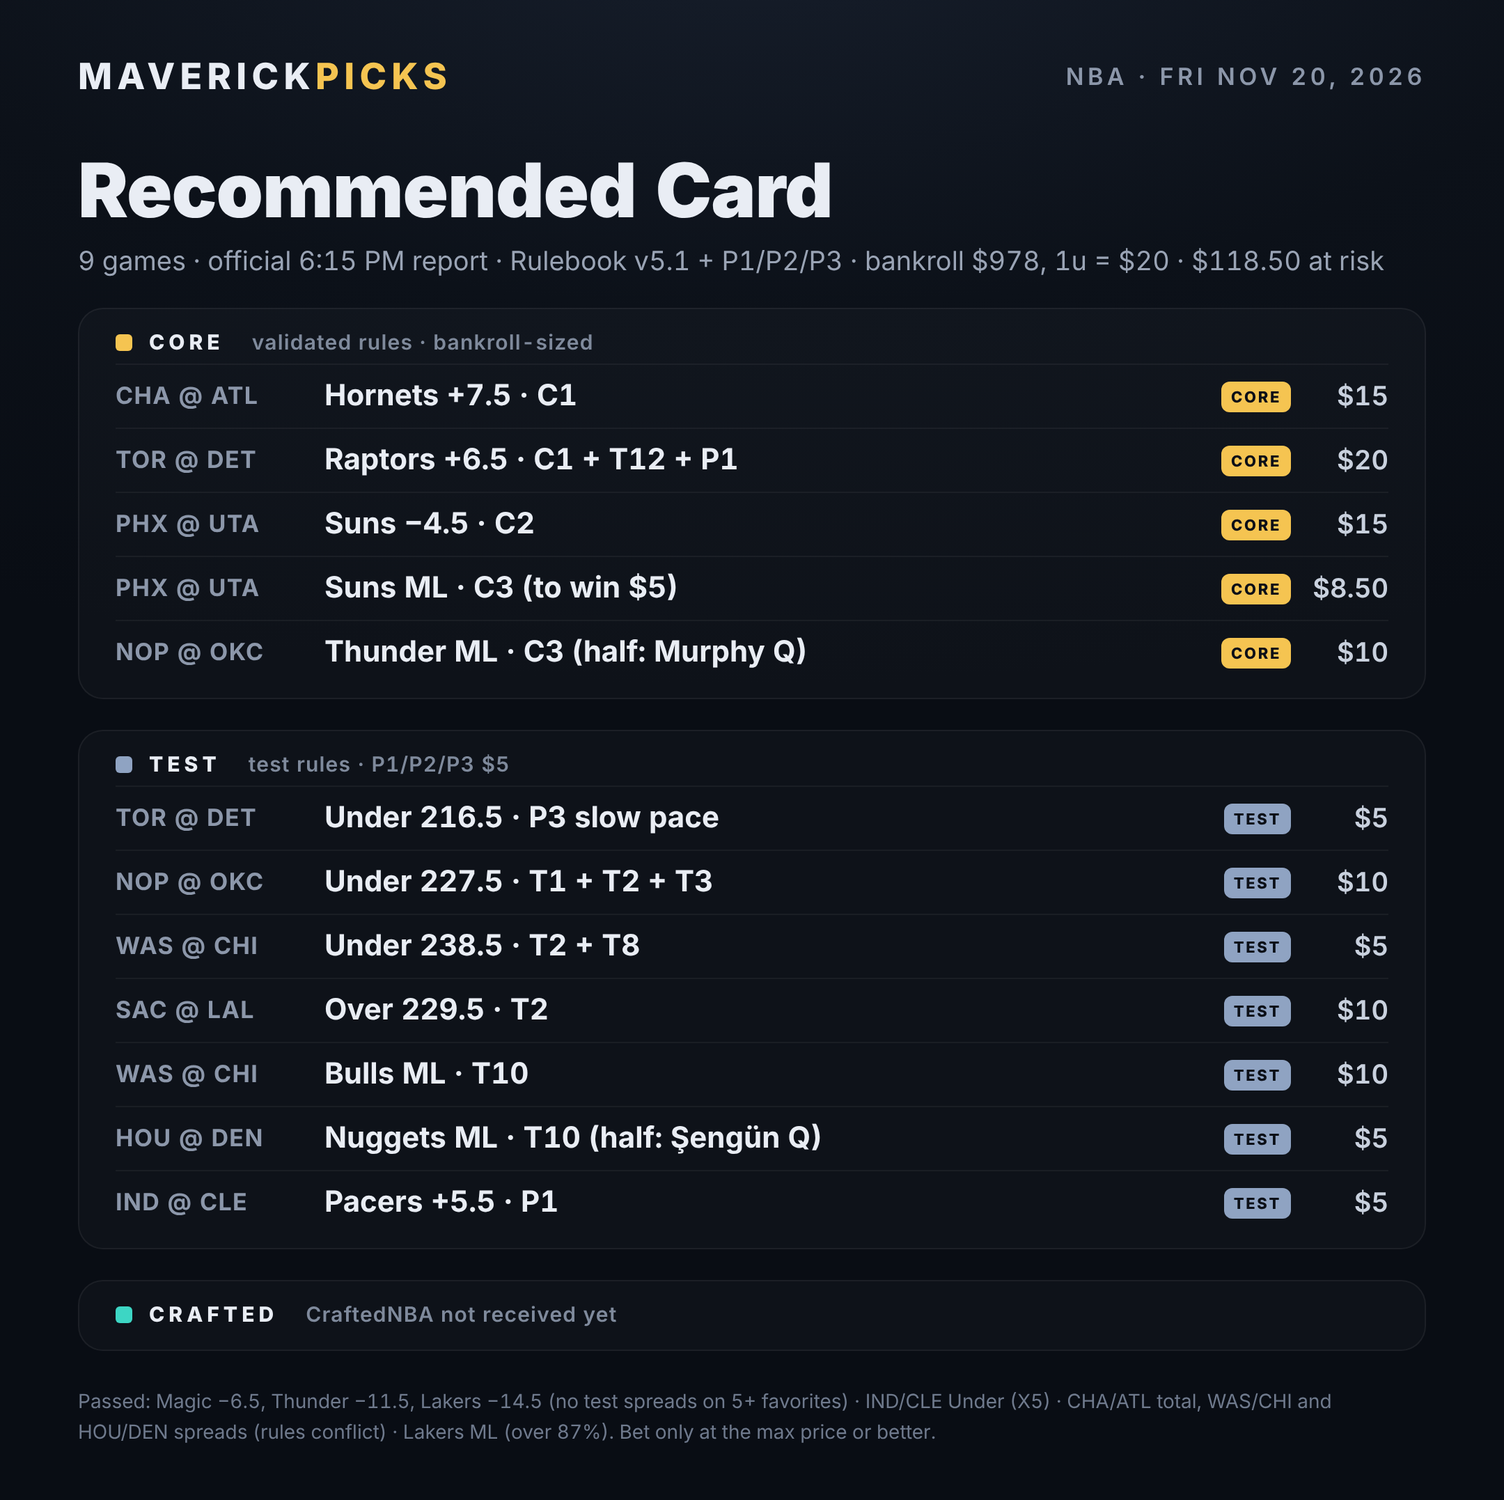
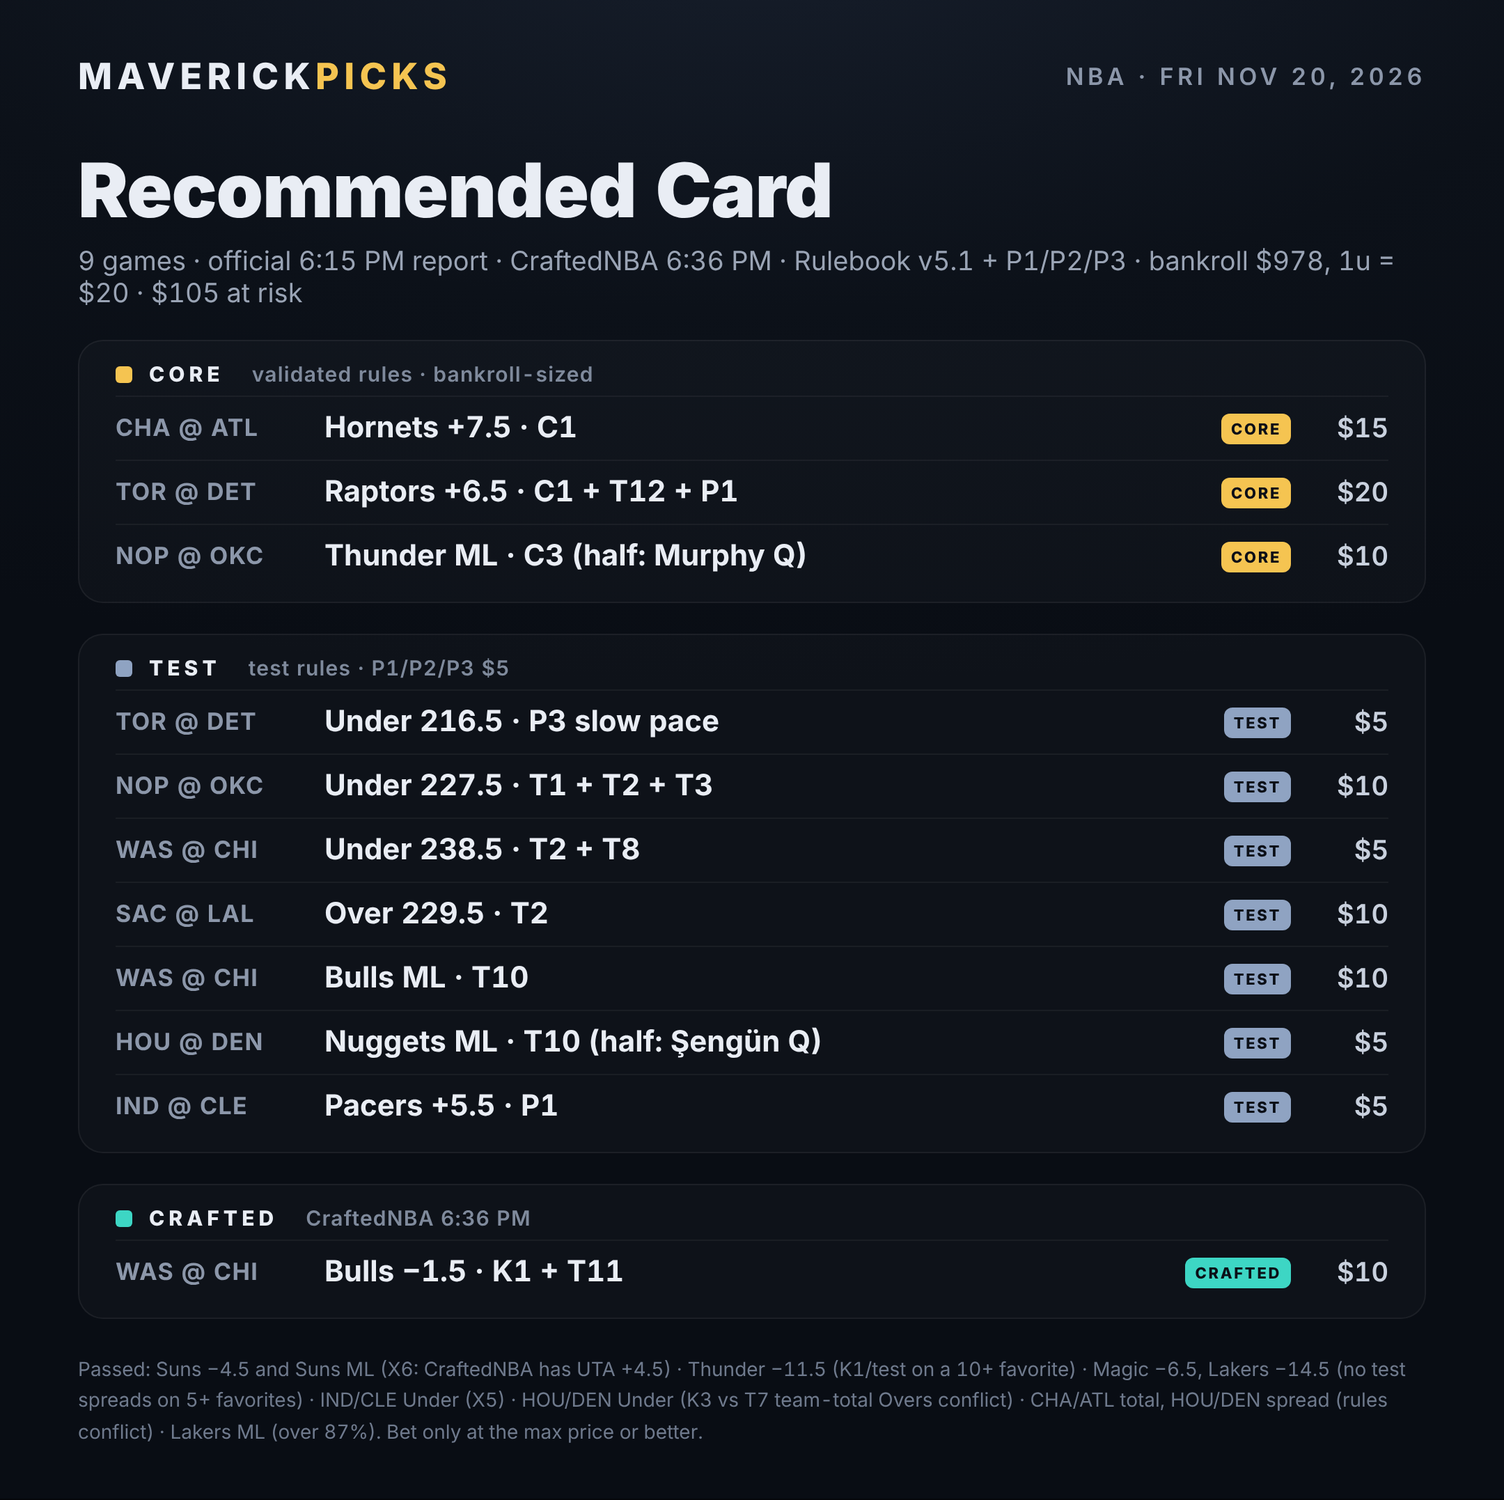
11/20 card: CraftedNBA 6:36 PM (K1 Bulls, X6 passes Suns)
Claude-Session: https://claude.ai/code/session_01QjvVrX2VGrkZLp9bxEQ8uL

diff --git a/nba_session/cards_1120/00_recommended_card.html b/nba_session/cards_1120/00_recommended_card.html
@@ -20,6 +20,6 @@ h1{font-size:54px;font-weight:900;letter-spacing:-.01em;margin:34px 0 6px}
 .foot{margin-top:26px;font-size:14px;color:#6F7A8D;line-height:1.6} .foot b{color:#C9D1DE}
 </style></head><body><div id="card">
 <div class="top"><div class="brand">MAVERICK<span>PICKS</span></div><div class="meta">NBA · FRI NOV 20, 2026</div></div>
-<h1>Recommended Card</h1><div class="lead">9 games · official 6:15 PM report · Rulebook v5.1 + P1/P2/P3 · bankroll $978, 1u = $20 · $118.50 at risk</div>
-<div class="sec"><div class="sh"><span class="dot" style="background:#F5C451"></span>CORE<span class="sub">validated rules · bankroll-sized</span></div><div class="it"><div class="g">CHA @ ATL</div><div class="p">Hornets +7.5 · C1</div><div class="tags"><span class="tag" style="background:#F5C451">CORE</span></div><div class="u">$15</div></div><div class="it"><div class="g">TOR @ DET</div><div class="p">Raptors +6.5 · C1 + T12 + P1</div><div class="tags"><span class="tag" style="background:#F5C451">CORE</span></div><div class="u">$20</div></div><div class="it"><div class="g">PHX @ UTA</div><div class="p">Suns −4.5 · C2</div><div class="tags"><span class="tag" style="background:#F5C451">CORE</span></div><div class="u">$15</div></div><div class="it"><div class="g">PHX @ UTA</div><div class="p">Suns ML · C3 (to win $5)</div><div class="tags"><span class="tag" style="background:#F5C451">CORE</span></div><div class="u">$8.50</div></div><div class="it"><div class="g">NOP @ OKC</div><div class="p">Thunder ML · C3 (half: Murphy Q)</div><div class="tags"><span class="tag" style="background:#F5C451">CORE</span></div><div class="u">$10</div></div></div><div class="sec"><div class="sh"><span class="dot" style="background:#8FA3C2"></span>TEST<span class="sub">test rules · P1/P2/P3 $5</span></div><div class="it"><div class="g">TOR @ DET</div><div class="p">Under 216.5 · P3 slow pace</div><div class="tags"><span class="tag" style="background:#8FA3C2">TEST</span></div><div class="u">$5</div></div><div class="it"><div class="g">NOP @ OKC</div><div class="p">Under 227.5 · T1 + T2 + T3</div><div class="tags"><span class="tag" style="background:#8FA3C2">TEST</span></div><div class="u">$10</div></div><div class="it"><div class="g">WAS @ CHI</div><div class="p">Under 238.5 · T2 + T8</div><div class="tags"><span class="tag" style="background:#8FA3C2">TEST</span></div><div class="u">$5</div></div><div class="it"><div class="g">SAC @ LAL</div><div class="p">Over 229.5 · T2</div><div class="tags"><span class="tag" style="background:#8FA3C2">TEST</span></div><div class="u">$10</div></div><div class="it"><div class="g">WAS @ CHI</div><div class="p">Bulls ML · T10</div><div class="tags"><span class="tag" style="background:#8FA3C2">TEST</span></div><div class="u">$10</div></div><div class="it"><div class="g">HOU @ DEN</div><div class="p">Nuggets ML · T10 (half: Şengün Q)</div><div class="tags"><span class="tag" style="background:#8FA3C2">TEST</span></div><div class="u">$5</div></div><div class="it"><div class="g">IND @ CLE</div><div class="p">Pacers +5.5 · P1</div><div class="tags"><span class="tag" style="background:#8FA3C2">TEST</span></div><div class="u">$5</div></div></div><div class="sec"><div class="sh"><span class="dot" style="background:#3DD6C4"></span>CRAFTED<span class="sub">CraftedNBA not received yet</span></div></div>
-<div class="foot">Passed: Magic −6.5, Thunder −11.5, Lakers −14.5 (no test spreads on 5+ favorites) · IND/CLE Under (X5) · CHA/ATL total, WAS/CHI and HOU/DEN spreads (rules conflict) · Lakers ML (over 87%). Bet only at the max price or better.</div></div></body></html>
+<h1>Recommended Card</h1><div class="lead">9 games · official 6:15 PM report · CraftedNBA 6:36 PM · Rulebook v5.1 + P1/P2/P3 · bankroll $978, 1u = $20 · $105 at risk</div>
+<div class="sec"><div class="sh"><span class="dot" style="background:#F5C451"></span>CORE<span class="sub">validated rules · bankroll-sized</span></div><div class="it"><div class="g">CHA @ ATL</div><div class="p">Hornets +7.5 · C1</div><div class="tags"><span class="tag" style="background:#F5C451">CORE</span></div><div class="u">$15</div></div><div class="it"><div class="g">TOR @ DET</div><div class="p">Raptors +6.5 · C1 + T12 + P1</div><div class="tags"><span class="tag" style="background:#F5C451">CORE</span></div><div class="u">$20</div></div><div class="it"><div class="g">NOP @ OKC</div><div class="p">Thunder ML · C3 (half: Murphy Q)</div><div class="tags"><span class="tag" style="background:#F5C451">CORE</span></div><div class="u">$10</div></div></div><div class="sec"><div class="sh"><span class="dot" style="background:#8FA3C2"></span>TEST<span class="sub">test rules · P1/P2/P3 $5</span></div><div class="it"><div class="g">TOR @ DET</div><div class="p">Under 216.5 · P3 slow pace</div><div class="tags"><span class="tag" style="background:#8FA3C2">TEST</span></div><div class="u">$5</div></div><div class="it"><div class="g">NOP @ OKC</div><div class="p">Under 227.5 · T1 + T2 + T3</div><div class="tags"><span class="tag" style="background:#8FA3C2">TEST</span></div><div class="u">$10</div></div><div class="it"><div class="g">WAS @ CHI</div><div class="p">Under 238.5 · T2 + T8</div><div class="tags"><span class="tag" style="background:#8FA3C2">TEST</span></div><div class="u">$5</div></div><div class="it"><div class="g">SAC @ LAL</div><div class="p">Over 229.5 · T2</div><div class="tags"><span class="tag" style="background:#8FA3C2">TEST</span></div><div class="u">$10</div></div><div class="it"><div class="g">WAS @ CHI</div><div class="p">Bulls ML · T10</div><div class="tags"><span class="tag" style="background:#8FA3C2">TEST</span></div><div class="u">$10</div></div><div class="it"><div class="g">HOU @ DEN</div><div class="p">Nuggets ML · T10 (half: Şengün Q)</div><div class="tags"><span class="tag" style="background:#8FA3C2">TEST</span></div><div class="u">$5</div></div><div class="it"><div class="g">IND @ CLE</div><div class="p">Pacers +5.5 · P1</div><div class="tags"><span class="tag" style="background:#8FA3C2">TEST</span></div><div class="u">$5</div></div></div><div class="sec"><div class="sh"><span class="dot" style="background:#3DD6C4"></span>CRAFTED<span class="sub">CraftedNBA 6:36 PM</span></div><div class="it"><div class="g">WAS @ CHI</div><div class="p">Bulls −1.5 · K1 + T11</div><div class="tags"><span class="tag" style="background:#3DD6C4">CRAFTED</span></div><div class="u">$10</div></div></div>
+<div class="foot">Passed: Suns −4.5 and Suns ML (X6: CraftedNBA has UTA +4.5) · Thunder −11.5 (K1/test on a 10+ favorite) · Magic −6.5, Lakers −14.5 (no test spreads on 5+ favorites) · IND/CLE Under (X5) · HOU/DEN Under (K3 vs T7 team-total Overs conflict) · CHA/ATL total, HOU/DEN spread (rules conflict) · Lakers ML (over 87%). Bet only at the max price or better.</div></div></body></html>

diff --git a/nba_session/cards_1120/07_PHX_at_UTA.html b/nba_session/cards_1120/07_PHX_at_UTA.html
@@ -60,7 +60,7 @@ body{background:#05070B;font-family:'Inter',sans-serif;-webkit-font-smoothing:an
   <div class="team"><div class="bar" style="background:#E56020"></div><div class="tag">Away</div><div class="abbr">PHX</div><div class="nick">Phoenix Suns</div></div>
   <div class="mid"><div class="ptag">Projected Score</div>
    <div class="score">114.0<i>–</i>109.1</div>
-   <div class="sub">Total 223.1 &nbsp;·&nbsp; PHX by 4.9</div><div class="craft">CraftedNBA: not received</div></div>
+   <div class="sub">Total 223.1 &nbsp;·&nbsp; PHX by 4.9</div><div class="craft">CraftedNBA: PHX −2.3 · O/U 226.0 (picks UTA +4.5)</div></div>
   <div class="team h"><div class="bar" style="background:#8A63D2"></div><div class="tag">Home</div><div class="abbr">UTA</div><div class="nick">Utah Jazz</div></div>
  </div>
  <div class="wp">
@@ -69,16 +69,16 @@ body{background:#05070B;font-family:'Inter',sans-serif;-webkit-font-smoothing:an
  </div>
  <div class="table">
   <div class="hdr"><div>Market</div><div>Line</div><div>Odds</div><div>Model</div><div>Edge</div><div></div></div>
-  <div class="sec">Moneyline</div><div class="row play">
+  <div class="sec">Moneyline</div><div class="row">
               <div class="lab"><span class="dot" style="background:#E56020"></span>Suns</div><div><span class="muted">—</span></div><div>−170</div>
               <div class="muted">65.1%</div><div class="pos">+2.4%</div>
-              <div><span class="pill core">CORE</span></div></div><div class="row">
+              <div></div></div><div class="row">
               <div class="lab"><span class="dot" style="background:#8A63D2"></span>Jazz</div><div><span class="muted">—</span></div><div>+167</div>
               <div class="muted">34.9%</div><div class="neg">−2.4%</div>
-              <div></div></div><div class="sec">Spread</div><div class="row play">
+              <div></div></div><div class="sec">Spread</div><div class="row">
               <div class="lab"><span class="dot" style="background:#E56020"></span>Suns</div><div>−4.5</div><div>−104</div>
               <div class="muted">51.1%</div><div class="pos">+0.6%</div>
-              <div><span class="pill core">CORE</span></div></div><div class="row">
+              <div></div></div><div class="row">
               <div class="lab"><span class="dot" style="background:#8A63D2"></span>Jazz</div><div>+4.5</div><div>+100</div>
               <div class="muted">48.9%</div><div class="neg">−0.6%</div>
               <div></div></div><div class="sec">Game Total</div><div class="row">
@@ -89,7 +89,7 @@ body{background:#05070B;font-family:'Inter',sans-serif;-webkit-font-smoothing:an
               <div class="muted">55.4%</div><div class="pos">+5.9%</div>
               <div></div></div>
  </div>
- <div class="recs"><h4>Recommendations</h4><div class="ritem"><div>Suns −4.5 · C2</div><div class="pills"><span class="pill core">CORE</span><span class="u">$15</span></div></div><div class="ritem"><div>Suns ML · C3 (to win $5)</div><div class="pills"><span class="pill core">CORE</span><span class="u">$8.50</span></div></div></div>
+ <div class="recs"><h4>Recommendations</h4><div class="none">No play</div></div>
  <div class="foot"><div><span class="legend">CORE = validated rule &middot; TEST = paper / small &middot; CRAFTED = CraftedNBA follow rule</span><br><b>Odds: Novig</b> &nbsp;·&nbsp; 21+ &nbsp;·&nbsp; Bet responsibly.</div>
-  <div class="count">2 recommendations</div></div>
+  <div class="count">0 recommendations</div></div>
 </div></body></html>

diff --git a/nba_session/cards_1120/06_WAS_at_CHI.html b/nba_session/cards_1120/06_WAS_at_CHI.html
@@ -60,7 +60,7 @@ body{background:#05070B;font-family:'Inter',sans-serif;-webkit-font-smoothing:an
   <div class="team"><div class="bar" style="background:#E31837"></div><div class="tag">Away</div><div class="abbr">WAS</div><div class="nick">Washington Wizards</div></div>
   <div class="mid"><div class="ptag">Projected Score</div>
    <div class="score">117.7<i>–</i>120.8</div>
-   <div class="sub">Total 238.5 &nbsp;·&nbsp; CHI by 3.0</div><div class="craft">CraftedNBA: not received</div></div>
+   <div class="sub">Total 238.5 &nbsp;·&nbsp; CHI by 3.0</div><div class="craft">CraftedNBA: CHI −3.2 · O/U 237.9 (picks CHI −1.5)</div></div>
   <div class="team h"><div class="bar" style="background:#CE1141"></div><div class="tag">Home</div><div class="abbr">CHI</div><div class="nick">Chicago Bulls</div></div>
  </div>
  <div class="wp">
@@ -78,10 +78,10 @@ body{background:#05070B;font-family:'Inter',sans-serif;-webkit-font-smoothing:an
               <div><span class="pill test">TEST</span></div></div><div class="sec">Spread</div><div class="row">
               <div class="lab"><span class="dot" style="background:#E31837"></span>Wizards</div><div>+1.5</div><div>+104</div>
               <div class="muted">45.1%</div><div class="neg">−3.4%</div>
-              <div></div></div><div class="row">
+              <div></div></div><div class="row play">
               <div class="lab"><span class="dot" style="background:#CE1141"></span>Bulls</div><div>−1.5</div><div>−108</div>
               <div class="muted">54.9%</div><div class="pos">+3.4%</div>
-              <div></div></div><div class="sec">Game Total</div><div class="row">
+              <div><span class="pill crafted">CRAFTED</span></div></div><div class="sec">Game Total</div><div class="row">
               <div class="lab">Over</div><div>238.5</div><div>+102</div>
               <div class="muted">50.0%</div><div class="pos">+0.7%</div>
               <div></div></div><div class="row play">
@@ -101,7 +101,7 @@ body{background:#05070B;font-family:'Inter',sans-serif;-webkit-font-smoothing:an
               <div class="muted">49.0%</div><div class="neg">−2.2%</div>
               <div></div></div>
  </div>
- <div class="recs"><h4>Recommendations</h4><div class="ritem"><div>Bulls ML · T10</div><div class="pills"><span class="pill test">TEST</span><span class="u">$10</span></div></div><div class="ritem"><div>Under 238.5 · T2 + T8</div><div class="pills"><span class="pill test">TEST</span><span class="u">$5</span></div></div></div>
+ <div class="recs"><h4>Recommendations</h4><div class="ritem"><div>Bulls −1.5 · K1 + T11</div><div class="pills"><span class="pill crafted">CRAFTED</span><span class="u">$10</span></div></div><div class="ritem"><div>Bulls ML · T10</div><div class="pills"><span class="pill test">TEST</span><span class="u">$10</span></div></div><div class="ritem"><div>Under 238.5 · T2 + T8</div><div class="pills"><span class="pill test">TEST</span><span class="u">$5</span></div></div></div>
  <div class="foot"><div><span class="legend">CORE = validated rule &middot; TEST = paper / small &middot; CRAFTED = CraftedNBA follow rule</span><br><b>Odds: Novig</b> &nbsp;·&nbsp; 21+ &nbsp;·&nbsp; Bet responsibly.</div>
-  <div class="count">2 recommendations</div></div>
+  <div class="count">3 recommendations</div></div>
 </div></body></html>

diff --git a/nba_session/cards_1120/01_CHA_at_ATL.html b/nba_session/cards_1120/01_CHA_at_ATL.html
@@ -60,7 +60,7 @@ body{background:#05070B;font-family:'Inter',sans-serif;-webkit-font-smoothing:an
   <div class="team"><div class="bar" style="background:#00A0B0"></div><div class="tag">Away</div><div class="abbr">CHA</div><div class="nick">Charlotte Hornets</div></div>
   <div class="mid"><div class="ptag">Projected Score</div>
    <div class="score">106.1<i>–</i>110.3</div>
-   <div class="sub">Total 216.4 &nbsp;·&nbsp; ATL by 4.2</div><div class="craft">CraftedNBA: not received</div></div>
+   <div class="sub">Total 216.4 &nbsp;·&nbsp; ATL by 4.2</div><div class="craft">CraftedNBA: ATL −7.5 · O/U 223.1 (no spread edge)</div></div>
   <div class="team h"><div class="bar" style="background:#E03A3E"></div><div class="tag">Home</div><div class="abbr">ATL</div><div class="nick">Atlanta Hawks</div></div>
  </div>
  <div class="wp">

diff --git a/nba_session/cards_1120/05_NOP_at_OKC.html b/nba_session/cards_1120/05_NOP_at_OKC.html
@@ -60,7 +60,7 @@ body{background:#05070B;font-family:'Inter',sans-serif;-webkit-font-smoothing:an
   <div class="team"><div class="bar" style="background:#C8A86B"></div><div class="tag">Away</div><div class="abbr">NOP</div><div class="nick">New Orleans Pelicans</div></div>
   <div class="mid"><div class="ptag">Projected Score</div>
    <div class="score">107.6<i>–</i>120.7</div>
-   <div class="sub">Total 228.2 &nbsp;·&nbsp; OKC by 13.1</div><div class="craft">CraftedNBA: not received</div></div>
+   <div class="sub">Total 228.2 &nbsp;·&nbsp; OKC by 13.1</div><div class="craft">CraftedNBA: OKC −13.2 · O/U 229.5</div></div>
   <div class="team h"><div class="bar" style="background:#1E8FE0"></div><div class="tag">Home</div><div class="abbr">OKC</div><div class="nick">Oklahoma City Thunder</div></div>
  </div>
  <div class="wp">

diff --git a/nba_session/cards_1120/08_SAC_at_LAL.html b/nba_session/cards_1120/08_SAC_at_LAL.html
@@ -60,7 +60,7 @@ body{background:#05070B;font-family:'Inter',sans-serif;-webkit-font-smoothing:an
   <div class="team"><div class="bar" style="background:#8A5CC7"></div><div class="tag">Away</div><div class="abbr">SAC</div><div class="nick">Sacramento Kings</div></div>
   <div class="mid"><div class="ptag">Projected Score</div>
    <div class="score">105.9<i>–</i>124.8</div>
-   <div class="sub">Total 230.7 &nbsp;·&nbsp; LAL by 18.9</div><div class="craft">CraftedNBA: not received</div></div>
+   <div class="sub">Total 230.7 &nbsp;·&nbsp; LAL by 18.9</div><div class="craft">CraftedNBA: LAL −14.4 · O/U 232.9</div></div>
   <div class="team h"><div class="bar" style="background:#8A4FD1"></div><div class="tag">Home</div><div class="abbr">LAL</div><div class="nick">Los Angeles Lakers</div></div>
  </div>
  <div class="wp">

diff --git a/nba_session/cards_1120/09_HOU_at_DEN.html b/nba_session/cards_1120/09_HOU_at_DEN.html
@@ -60,7 +60,7 @@ body{background:#05070B;font-family:'Inter',sans-serif;-webkit-font-smoothing:an
   <div class="team"><div class="bar" style="background:#CE1141"></div><div class="tag">Away</div><div class="abbr">HOU</div><div class="nick">Houston Rockets</div></div>
   <div class="mid"><div class="ptag">Projected Score</div>
    <div class="score">115.6<i>–</i>115.5</div>
-   <div class="sub">Total 231.2 &nbsp;·&nbsp; HOU by 0.1</div><div class="craft">CraftedNBA: not received</div></div>
+   <div class="sub">Total 231.2 &nbsp;·&nbsp; HOU by 0.1</div><div class="craft">CraftedNBA: DEN −1.8 · O/U 221.1 (Under)</div></div>
   <div class="team h"><div class="bar" style="background:#FEC524"></div><div class="tag">Home</div><div class="abbr">DEN</div><div class="nick">Denver Nuggets</div></div>
  </div>
  <div class="wp">

diff --git a/nba_session/cards_1120/02_IND_at_CLE.html b/nba_session/cards_1120/02_IND_at_CLE.html
@@ -60,7 +60,7 @@ body{background:#05070B;font-family:'Inter',sans-serif;-webkit-font-smoothing:an
   <div class="team"><div class="bar" style="background:#FDBB30"></div><div class="tag">Away</div><div class="abbr">IND</div><div class="nick">Indiana Pacers</div></div>
   <div class="mid"><div class="ptag">Projected Score</div>
    <div class="score">113.9<i>–</i>116.7</div>
-   <div class="sub">Total 230.6 &nbsp;·&nbsp; CLE by 2.8</div><div class="craft">CraftedNBA: not received</div></div>
+   <div class="sub">Total 230.6 &nbsp;·&nbsp; CLE by 2.8</div><div class="craft">CraftedNBA: CLE −6.2 · O/U 233.1</div></div>
   <div class="team h"><div class="bar" style="background:#B8325A"></div><div class="tag">Home</div><div class="abbr">CLE</div><div class="nick">Cleveland Cavaliers</div></div>
  </div>
  <div class="wp">

diff --git a/nba_session/cards_1120/04_TOR_at_DET.html b/nba_session/cards_1120/04_TOR_at_DET.html
@@ -60,7 +60,7 @@ body{background:#05070B;font-family:'Inter',sans-serif;-webkit-font-smoothing:an
   <div class="team"><div class="bar" style="background:#A1A1A4"></div><div class="tag">Away</div><div class="abbr">TOR</div><div class="nick">Toronto Raptors</div></div>
   <div class="mid"><div class="ptag">Projected Score</div>
    <div class="score">109.4<i>–</i>112.3</div>
-   <div class="sub">Total 221.7 &nbsp;·&nbsp; DET by 2.9</div><div class="craft">CraftedNBA: not received</div></div>
+   <div class="sub">Total 221.7 &nbsp;·&nbsp; DET by 2.9</div><div class="craft">CraftedNBA: DET −7.0 · O/U 219.5</div></div>
   <div class="team h"><div class="bar" style="background:#1D6FD1"></div><div class="tag">Home</div><div class="abbr">DET</div><div class="nick">Detroit Pistons</div></div>
  </div>
  <div class="wp">

diff --git a/nba_session/cards_1120/03_ORL_at_BKN.html b/nba_session/cards_1120/03_ORL_at_BKN.html
@@ -60,7 +60,7 @@ body{background:#05070B;font-family:'Inter',sans-serif;-webkit-font-smoothing:an
   <div class="team"><div class="bar" style="background:#1E8FE0"></div><div class="tag">Away</div><div class="abbr">ORL</div><div class="nick">Orlando Magic</div></div>
   <div class="mid"><div class="ptag">Projected Score</div>
    <div class="score">113.6<i>–</i>108.2</div>
-   <div class="sub">Total 221.8 &nbsp;·&nbsp; ORL by 5.4</div><div class="craft">CraftedNBA: not received</div></div>
+   <div class="sub">Total 221.8 &nbsp;·&nbsp; ORL by 5.4</div><div class="craft">CraftedNBA: ORL −6.6 · O/U 222.4</div></div>
   <div class="team h"><div class="bar" style="background:#A7ADB7"></div><div class="tag">Home</div><div class="abbr">BKN</div><div class="nick">Brooklyn Nets</div></div>
  </div>
  <div class="wp">
